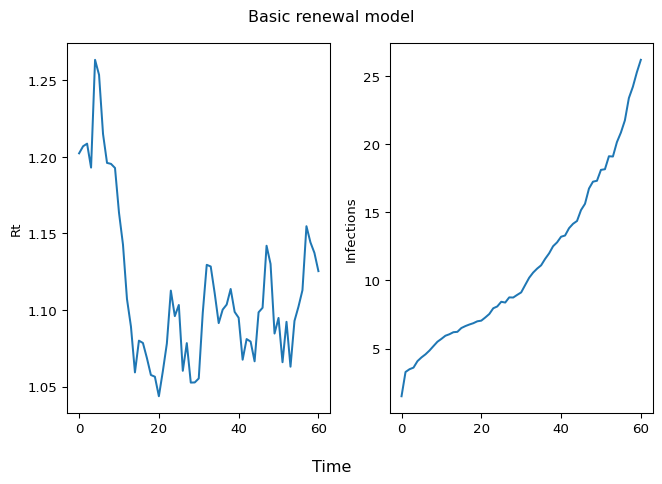
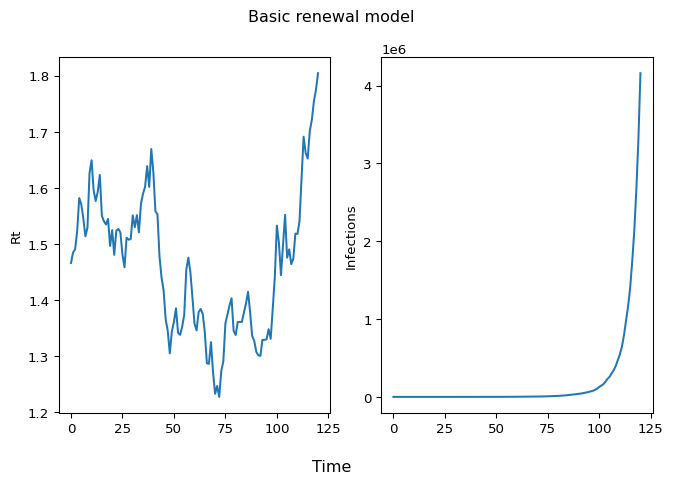
Adding math to the example-with-datasets plus clarifications in code

diff --git a/model/src/pyrenew/latent/infections.py b/model/src/pyrenew/latent/infections.py
@@ -16,7 +16,24 @@ InfectionsSample = namedtuple(
 
 
 class Infections(RandomVariable):
-    """Latent infections"""
+    r"""Latent infections
+
+    This class samples infections given Rt, initial infections, and generation
+    interval.
+
+    Notes
+    -----
+    The mathematical model is given by:
+
+    .. math::
+
+            I(t) = R(t) \times \sum_{\tau < t} I(\tau) g(t-\tau)
+
+    where :math:`I(t)` is the number of infections at time :math:`t`,
+    :math:`R(t)` is the reproduction number at time :math:`t`, and
+    :math:`g(t-\tau)` is the generation interval.
+
+    """
 
     def __init__(
         self,
@@ -49,9 +66,8 @@ class Infections(RandomVariable):
         gen_int: ArrayLike,
         **kwargs,
     ) -> tuple:
-        """Samples infections given Rt
-
-        A random variable representing the pmf of the generation interval.
+        """Samples infections given Rt, initial infections, and generation
+        interval.
 
         Parameters
         ----------

diff --git a/model/src/pyrenew/process/rtrandomwalk.py b/model/src/pyrenew/process/rtrandomwalk.py
@@ -8,7 +8,18 @@ from pyrenew.transform import AbstractTransform, LogTransform
 
 
 class RtRandomWalkProcess(RandomVariable):
-    """Rt Randomwalk Process"""
+    r"""Rt Randomwalk Process
+
+    Notes
+    -----
+
+    The process is defined as follows:
+
+    .. math::
+
+            Rt(0) &\sim \text{Rt0_dist} \\
+            Rt(t) &\sim \text{Rt_transform}(\text{Rt_transformed_rw}(t))
+    """
 
     def __init__(
         self,

diff --git a/model/src/pyrenew/latent/infection_functions.py b/model/src/pyrenew/latent/infection_functions.py
@@ -45,7 +45,7 @@ def sample_infections_rt(
     """
     incidence_func = new_convolve_scanner(reversed_generation_interval_pmf)
 
-    latest, all_infections = jax.lax.scan(incidence_func, I0, Rt)
+    latest, all_infections = jax.lax.scan(f=incidence_func, init=I0, xs=Rt)
 
     return all_infections
 

diff --git a/model/docs/example-with-datasets.md b/model/docs/example-with-datasets.md
@@ -12,6 +12,47 @@ from pyrenew.datasets import load_wastewater
 from pyrenew.model import HospitalizationsModel
 ```
 
+    /mnt/c/Users/xrd4/Documents/repos/msr/model/.venv/lib/python3.10/site-packages/tqdm/auto.py:21: TqdmWarning: IProgress not found. Please update jupyter and ipywidgets. See https://ipywidgets.readthedocs.io/en/stable/user_install.html
+      from .autonotebook import tqdm as notebook_tqdm
+    An NVIDIA GPU may be present on this machine, but a CUDA-enabled jaxlib is not installed. Falling back to cpu.
+
+## Model definition
+
+In this section we provide the formal definition of the model. The
+hospitalization model is a semi-mechanistic model that describes the
+number of observed hospitalizations as a function of a set of latent
+variables. Particularly, the observed number of hospitalizations is
+discretily distributed with location at the number of latent
+hospitalizations:
+
+$$
+h(t) \sim \text{HospDist}\left(H(t)\right)
+$$
+
+Where $h(t)$ is the observed number of hospitalizations at time $t$, and
+$H(t)$ is the number of latent hospitalizations at time $t$. The
+distribution $\text{HospDist}$ can be any discrete distribution, but in
+this case we will use a negative binomial distribution.
+
+The number of latent hospitalizations at time $t$ is a function of the
+number of latent infections at time $t$ and the infection to
+hospitalization rate. The latent infections are modeled as a renewal
+process:
+
+$$
+I(t) = R(t) \times \sum_{\tau < t} I(\tau) g(t - \tau)
+$$
+
+The reproductive number $R(t)$ is modeled as a random walk process:
+
+$$
+\begin{align*}
+R(t) & = R(t-1) + \epsilon\\
+\log{\epsilon} & \sim \text{Normal}(0, \sigma) \\
+R(0) &\sim \text{TruncatedNormal}(\text{loc}=1.2, \text{scale}=0.2, \text{min}=0)
+\end{align*}
+$$
+
 ## Data processing
 
 We start by loading the data and inspecting the first five rows.
@@ -116,10 +157,21 @@ inf_hosp_int = inf_hosp_int["probability_mass"].to_numpy()
 
 # Taking a pick at the first 5 elements of each
 gen_int[:5], inf_hosp_int[:5]
+
+# Visualizing both quantities side by side
+fig, axs = plt.subplots(1, 2)
+
+axs[0].plot(gen_int)
+axs[0].set_title("Generation interval")
+axs[1].plot(inf_hosp_int)
+axs[1].set_title("Infection to hospitalization interval")
 ```
 
-    (array([0.16174201, 0.32062589, 0.24228335, 0.13465256, 0.06892184]),
-     array([0.        , 0.00469385, 0.01452001, 0.02786277, 0.04236565]))
+    Text(0.5, 1.0, 'Infection to hospitalization interval')
+
+<img
+src="example-with-datasets_files/figure-commonmark/data-extract-output-2.png"
+id="data-extract-2" />
 
 With these two in hand, we can start building the model. First, we will
 define the latent hospitalizations.
@@ -182,9 +234,11 @@ Let’s run a simulation to check if the model is working:
 import numpyro as npro
 import numpy as np
 
+timeframe = 120
+
 np.random.seed(223)
-with npro.handlers.seed(rng_seed = np.random.randint(1, 60)):
-    sim_data = model.sample(n_timepoints=60)
+with npro.handlers.seed(rng_seed = np.random.randint(1, timeframe)):
+    sim_data = model.sample(n_timepoints=timeframe)
 ```
 
 ``` python
@@ -193,11 +247,11 @@ import matplotlib.pyplot as plt
 fig, axs = plt.subplots(1, 2)
 
 # Rt plot
-axs[0].plot(range(0, 61), sim_data[0])
+axs[0].plot(range(0, timeframe + 1), sim_data[0])
 axs[0].set_ylabel('Rt')
 
 # Infections plot
-axs[1].plot(range(0, 61), sim_data[1])
+axs[1].plot(range(0, timeframe + 1), sim_data[1])
 axs[1].set_ylabel('Infections')
 
 fig.suptitle('Basic renewal model')
@@ -208,3 +262,22 @@ plt.show()
 
 ![Rt and
 Infections](example-with-datasets_files/figure-commonmark/basic-fig-output-1.png)
+
+## Fitting the model
+
+Now we can fit the model to the data. We will use the `run` method of
+the model object. The two inputs this model requires are `n_timepoints`
+and `observed_hospitalizations`
+
+``` python
+import jax
+
+model.run(
+    num_samples=2000,
+    num_warmup=1000,
+    n_timepoints=dat.shape[0] - 1,
+    observed_hospitalizations=dat["hospitalizations"].to_numpy(),
+    rng_key=jax.random.PRNGKey(54),
+    mcmc_args=dict(progress_bar=False),
+)
+```

diff --git a/model/docs/pyrenew_demo.md b/model/docs/pyrenew_demo.md
@@ -21,6 +21,8 @@ import numpyro.distributions as dist
 from pyrenew.process import SimpleRandomWalkProcess
 ```
 
+    An NVIDIA GPU may be present on this machine, but a CUDA-enabled jaxlib is not installed. Falling back to cpu.
+
 ``` python
 np.random.seed(3312)
 q = SimpleRandomWalkProcess(dist.Normal(0, 0.001))
